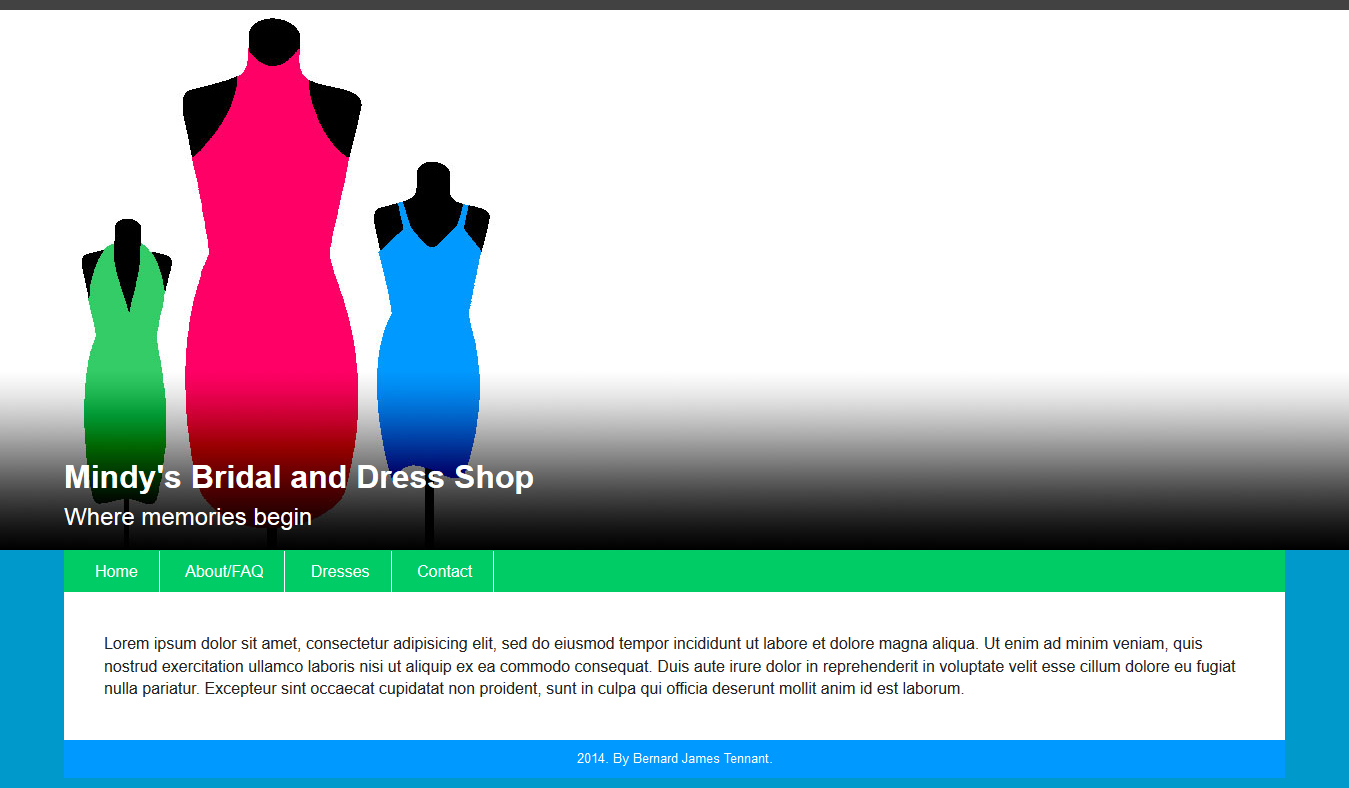
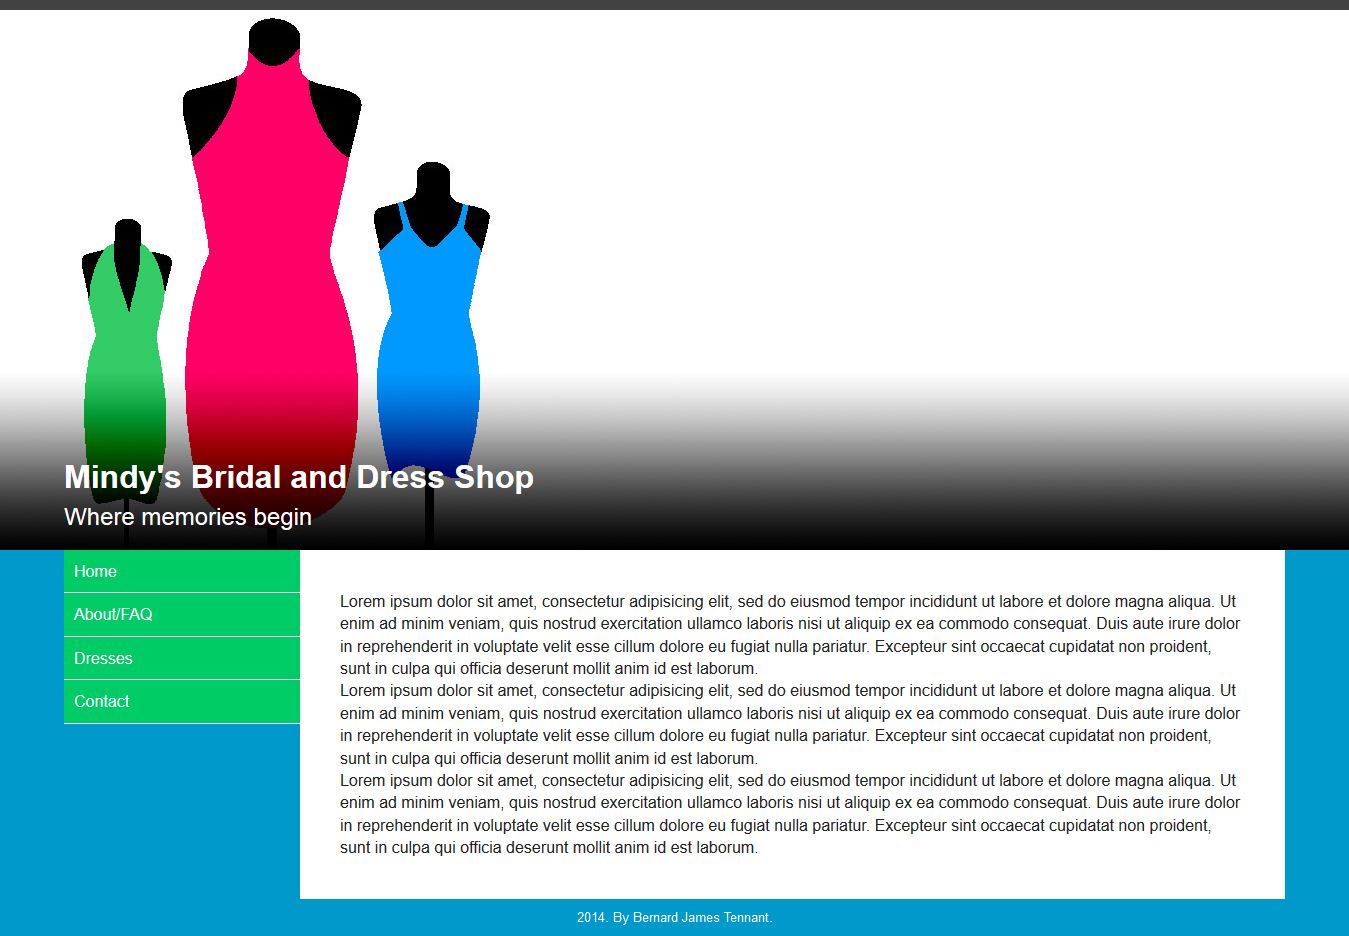
Final commit 2

diff --git a/css/main.css b/css/main.css
@@ -321,7 +321,7 @@ footer {
 	}
 	
 	nav {
-	width: 136px;
+	width: autopx;
 	margin-left: 24px;
 	float: none;
 	padding: 0;
@@ -329,7 +329,10 @@ footer {
 	
 	nav li {
 	display: inline;
-	font-size: 10pt;
+	font-size: 8pt;
+	padding: 0;
+	margin: 0;
+	border: none;
 	}
 	
 	article {
